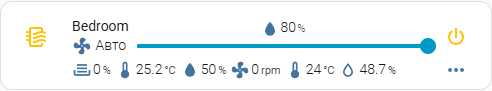
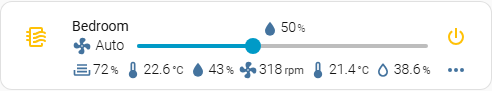
docs: take the documentation images on the bench, in English
Two of the three were screenshots of somebody's Russian Home Assistant, so the
card in them said `АВТО` where the card a reader will see says `Auto` - in a
repository whose Russian docs locale was built and then removed for the same
reason, on the first thing a reader looks at.

The language was not the worst of it. `default.png` illustrates the sentence
"the card reads the entity's name", and the name in it was
`xiaomi_miio_zhimi_humid...`, an entity id truncated mid-word. Both also showed
a device doing nothing: water level 0%, motor speed 0 rpm. The picture on the
front page was a card with an empty tank.

They are now taken on the bench, from a manifest view whose three cards are the
YAML blocks `docs/getting-started.md` shows, by `npm run bench docs`. The
browser there pins its locale and the frontend's language to English, so the
mode reads `Auto` because that is what the reader will see and not because
somebody remembered. All three come off one view at one viewport, so the
masonry column is the same for each and the pictures are the same width - the
command asserts that rather than trusting it, along with the view being where
it expects and holding the cards it names.

The cb1 fixture family is renamed to `bedroom_humidifier`, since its name is
now on the front page of the documentation; the unique ids move with it,
because an entity id already handed out survives `forget` otherwise. Its
temperature moves from 21.4 to 22.6 so that the room sensor beside it in
[…]

diff --git a/test/bench/README.md b/test/bench/README.md
@@ -100,7 +100,7 @@ browser test is hard to read without one.
 
 ## What the manifest holds
 
-Four views, and the difference between the first two is the point:
+Five views, and the difference between the first two is the point:
 
 - **Cards** is the card as its defaults render it, plus the cases the scenarios
   need: a dehumidifier with no modes, an entity that is not in `hass.states`, a
@@ -116,6 +116,8 @@ Four views, and the difference between the first two is the point:
 - **Models** is one card per bundled preset from
   `src/configurations/xiaomi_miio/`, each with the whole family of entities its
   preset reads (#266). See below.
+- **Documentation** is the three cards the documentation shows, and is where
+  `npm run bench docs` takes its pictures. See below.
 
 A card with nothing but an `entity` exercises almost none of what the tracker
 asks about, which is why the second view exists.
@@ -153,6 +155,25 @@ Removing an entity is an empty retained payload on its discovery topic. That is
 also how an entity leaves `hass.states` for real, which is the situation behind
 [#263].
 
+### The pictures the documentation points at
+
+`npm run bench docs` writes `docs/images/default.png`,
+`model-humidifier.png` and `custom-indicators.png` from the manifest's
+**Documentation** view, whose three cards are the YAML blocks
+`docs/getting-started.md` shows. Change one and the other has to follow.
+
+They used to be screenshots of somebody's dashboard, and two of the three were
+taken on a Russian Home Assistant - the card said `АВТО` where the reader's says
+`Auto` - on a device with an empty tank and a stopped motor, under a name that
+was an entity id truncated mid-word (#277). Taken here they are in English,
+because `browser.mjs` pins both the browser locale and the frontend's language,
+and they are of a device that is doing something.
+
+All three come off one view at a 1400px viewport, so the masonry column is the
+same for each and the pictures are the same width; the command checks that
+rather than trusting it, and refuses if the view is not where it expects or has
+gained a card.
+
 ### The build under test, and the month of cache in front of it
 
 Home Assistant serves `/local` with `Cache-Control: public, max-age=2678400`.
@@ -187,7 +208,7 @@ value in any test.
 
 Emulating the device is therefore not emulating Xiaomi. The card never talks to
 `xiaomi_miio`: it talks to entity ids and to services in core domains, so
-`bench_cb1` and its eight companions are ordinary MQTT entities that happen to
+`bedroom_humidifier` and its eight companions are ordinary MQTT entities that happen to
 be named the way the integration names its own. The fixtures do copy the
 integration where copying is free - the modes are `Silent`, `Medium`, `High`,
 `Auto` with the real capitalisation, `deerma` has `Humidity` rather than
@@ -198,8 +219,8 @@ Two things about fixture ids, both measured here rather than assumed, and both
 able to waste an hour:
 
 - **The `name` decides the entity id, not `object_id`.** A fixture with
-  `"object_id": "bench_cb1_water_lvl"` and `"name": "Bench cb1 water level"`
-  registers as `sensor.bench_cb1_water_level`. The two agree throughout the
+  `"object_id": "bedroom_humidifier_water_lvl"` and `"name": "Bedroom humidifier water level"`
+  registers as `sensor.bedroom_humidifier_water_level`. The two agree throughout the
   manifest, so the `object_id` fields document intent and decide nothing;
   renaming a fixture means renaming its `name`.
 - **An id already handed out survives `forget`.** Home Assistant keeps deleted

diff --git a/AGENTS.md b/AGENTS.md
@@ -158,7 +158,7 @@ npm run build      # everything CI runs, in the same order: lint, typecheck,
                    # check:version,
                    # changelog --check, test, rollup, check:bundle
 npm run watch      # unminified, rebuilding on save
-npm run bench      # up | setup | shot | down - the Home Assistant in a container
+npm run bench      # up | setup | shot | docs | down - the Home Assistant in a container
 npm run test:e2e   # the scenarios in test/e2e/, against that Home Assistant
 npm run bench:coverage # which parts of src/ those scenarios reach
 ```
